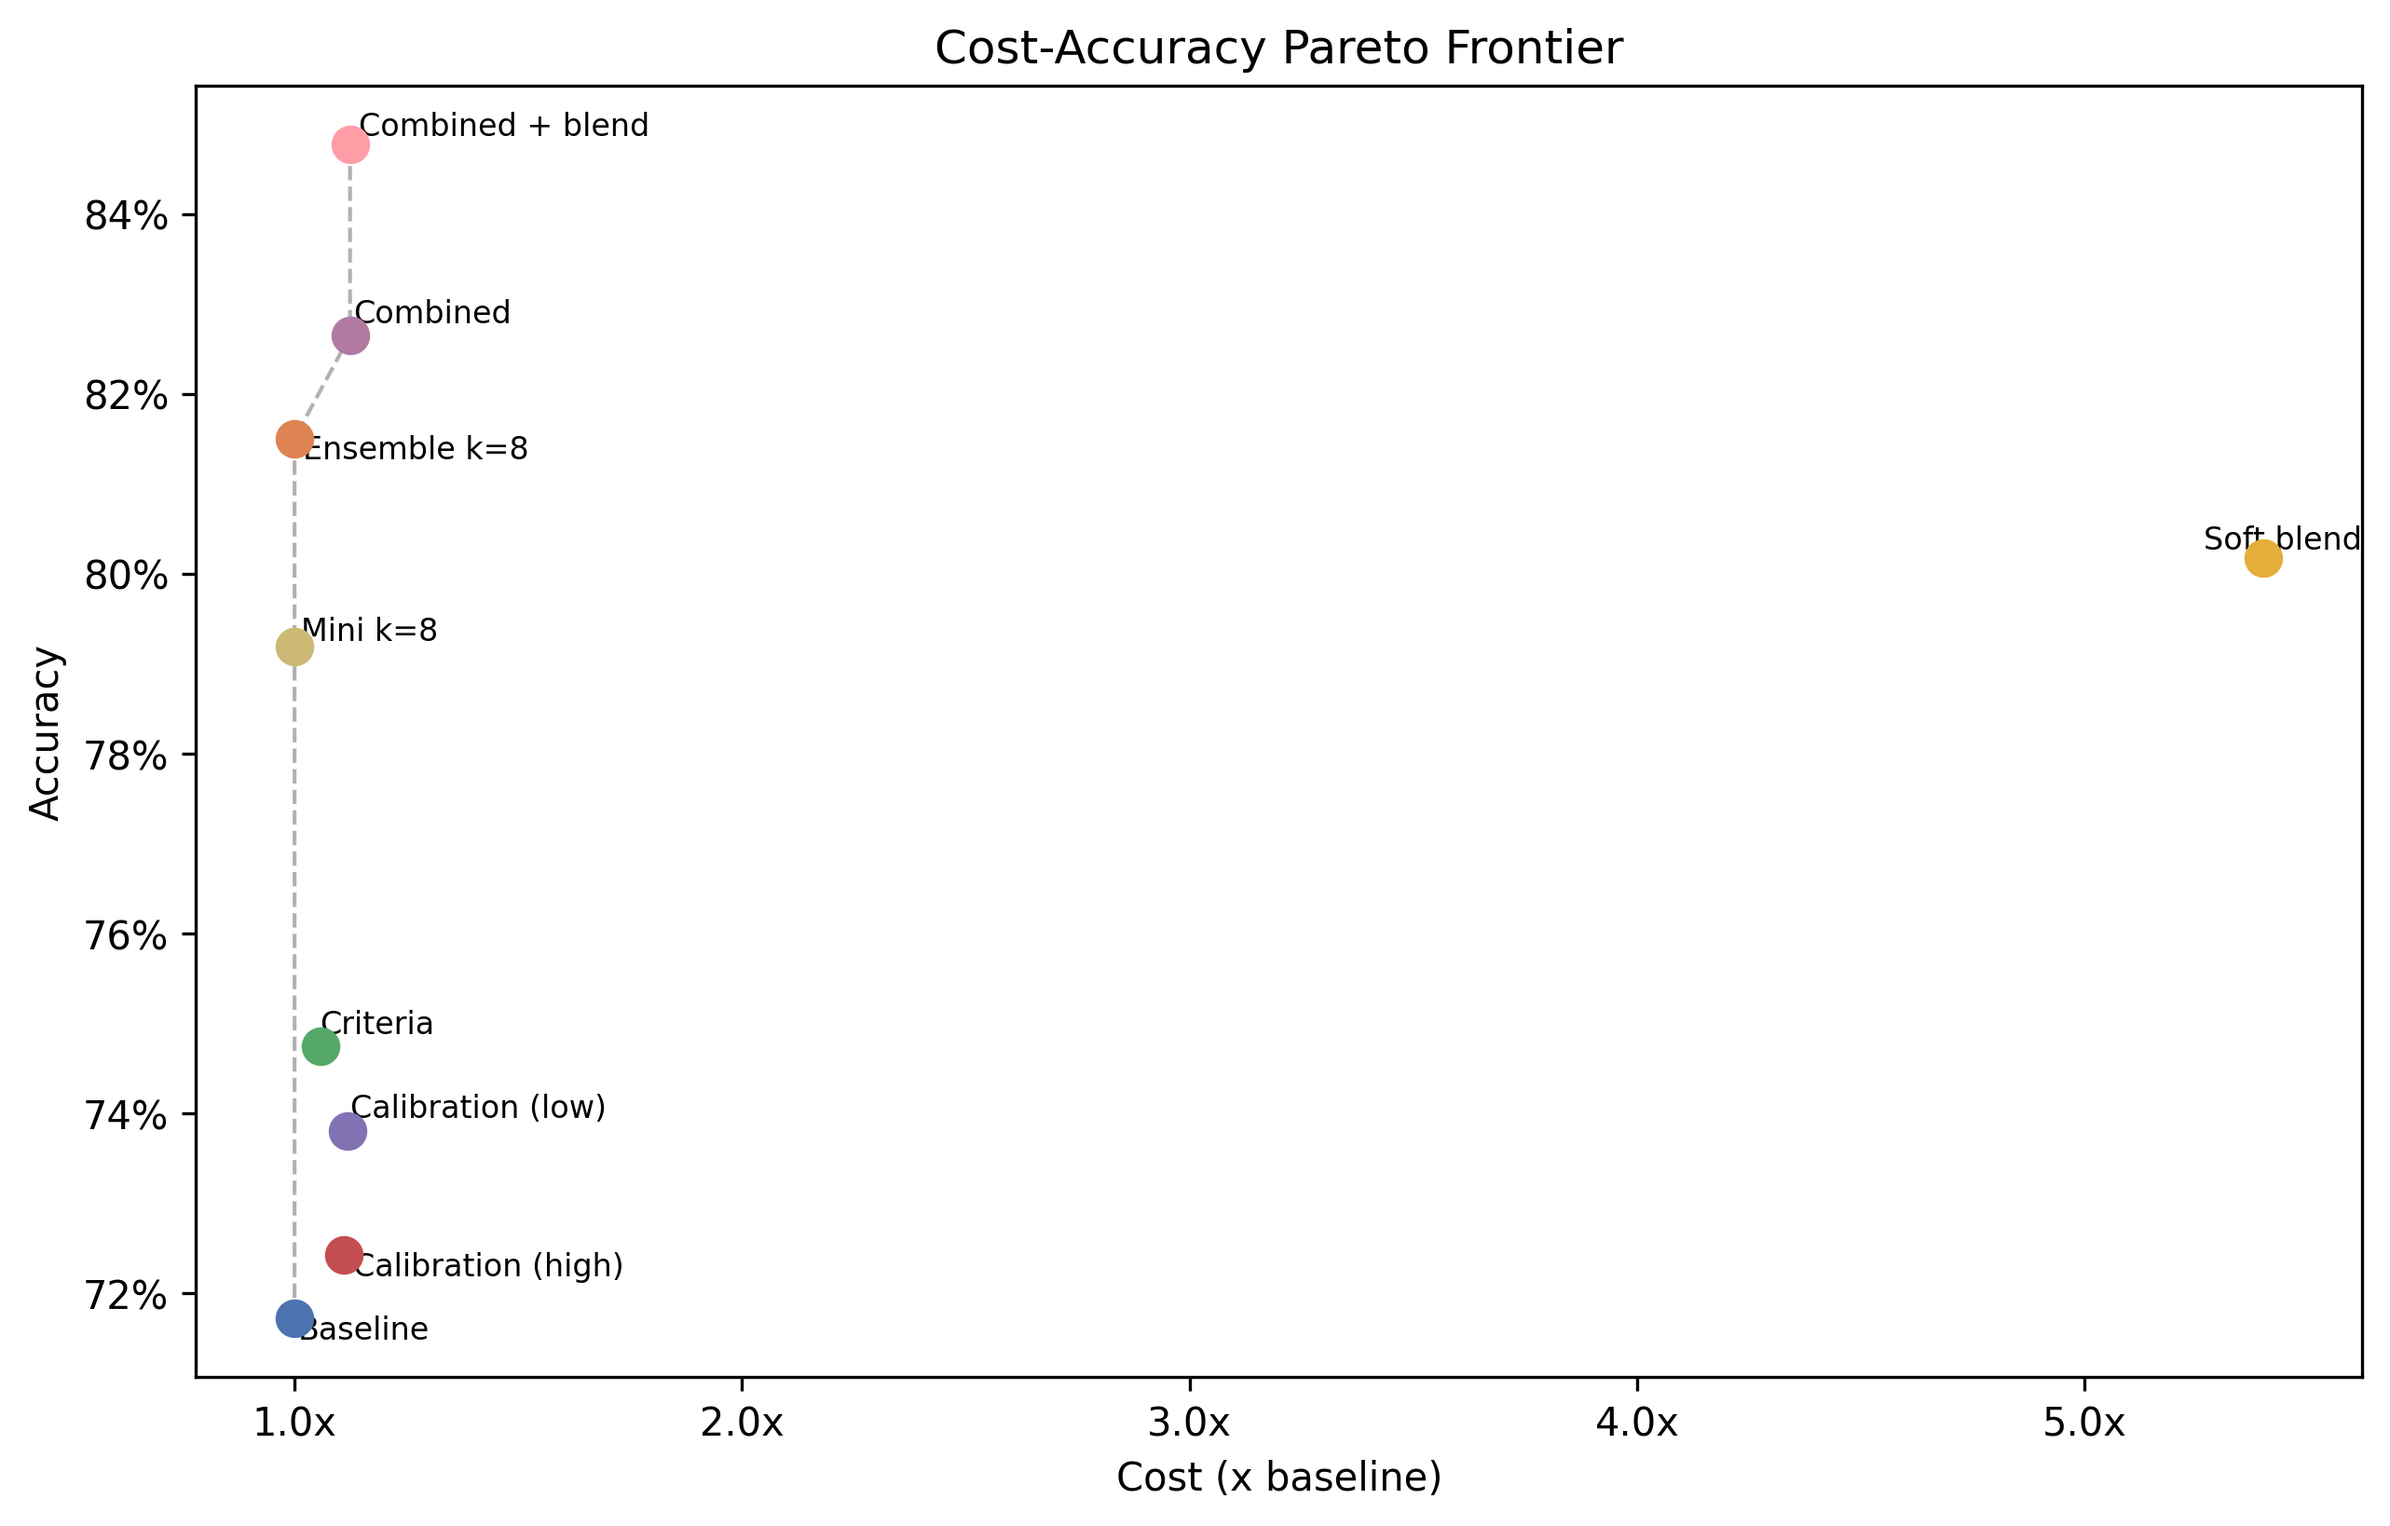
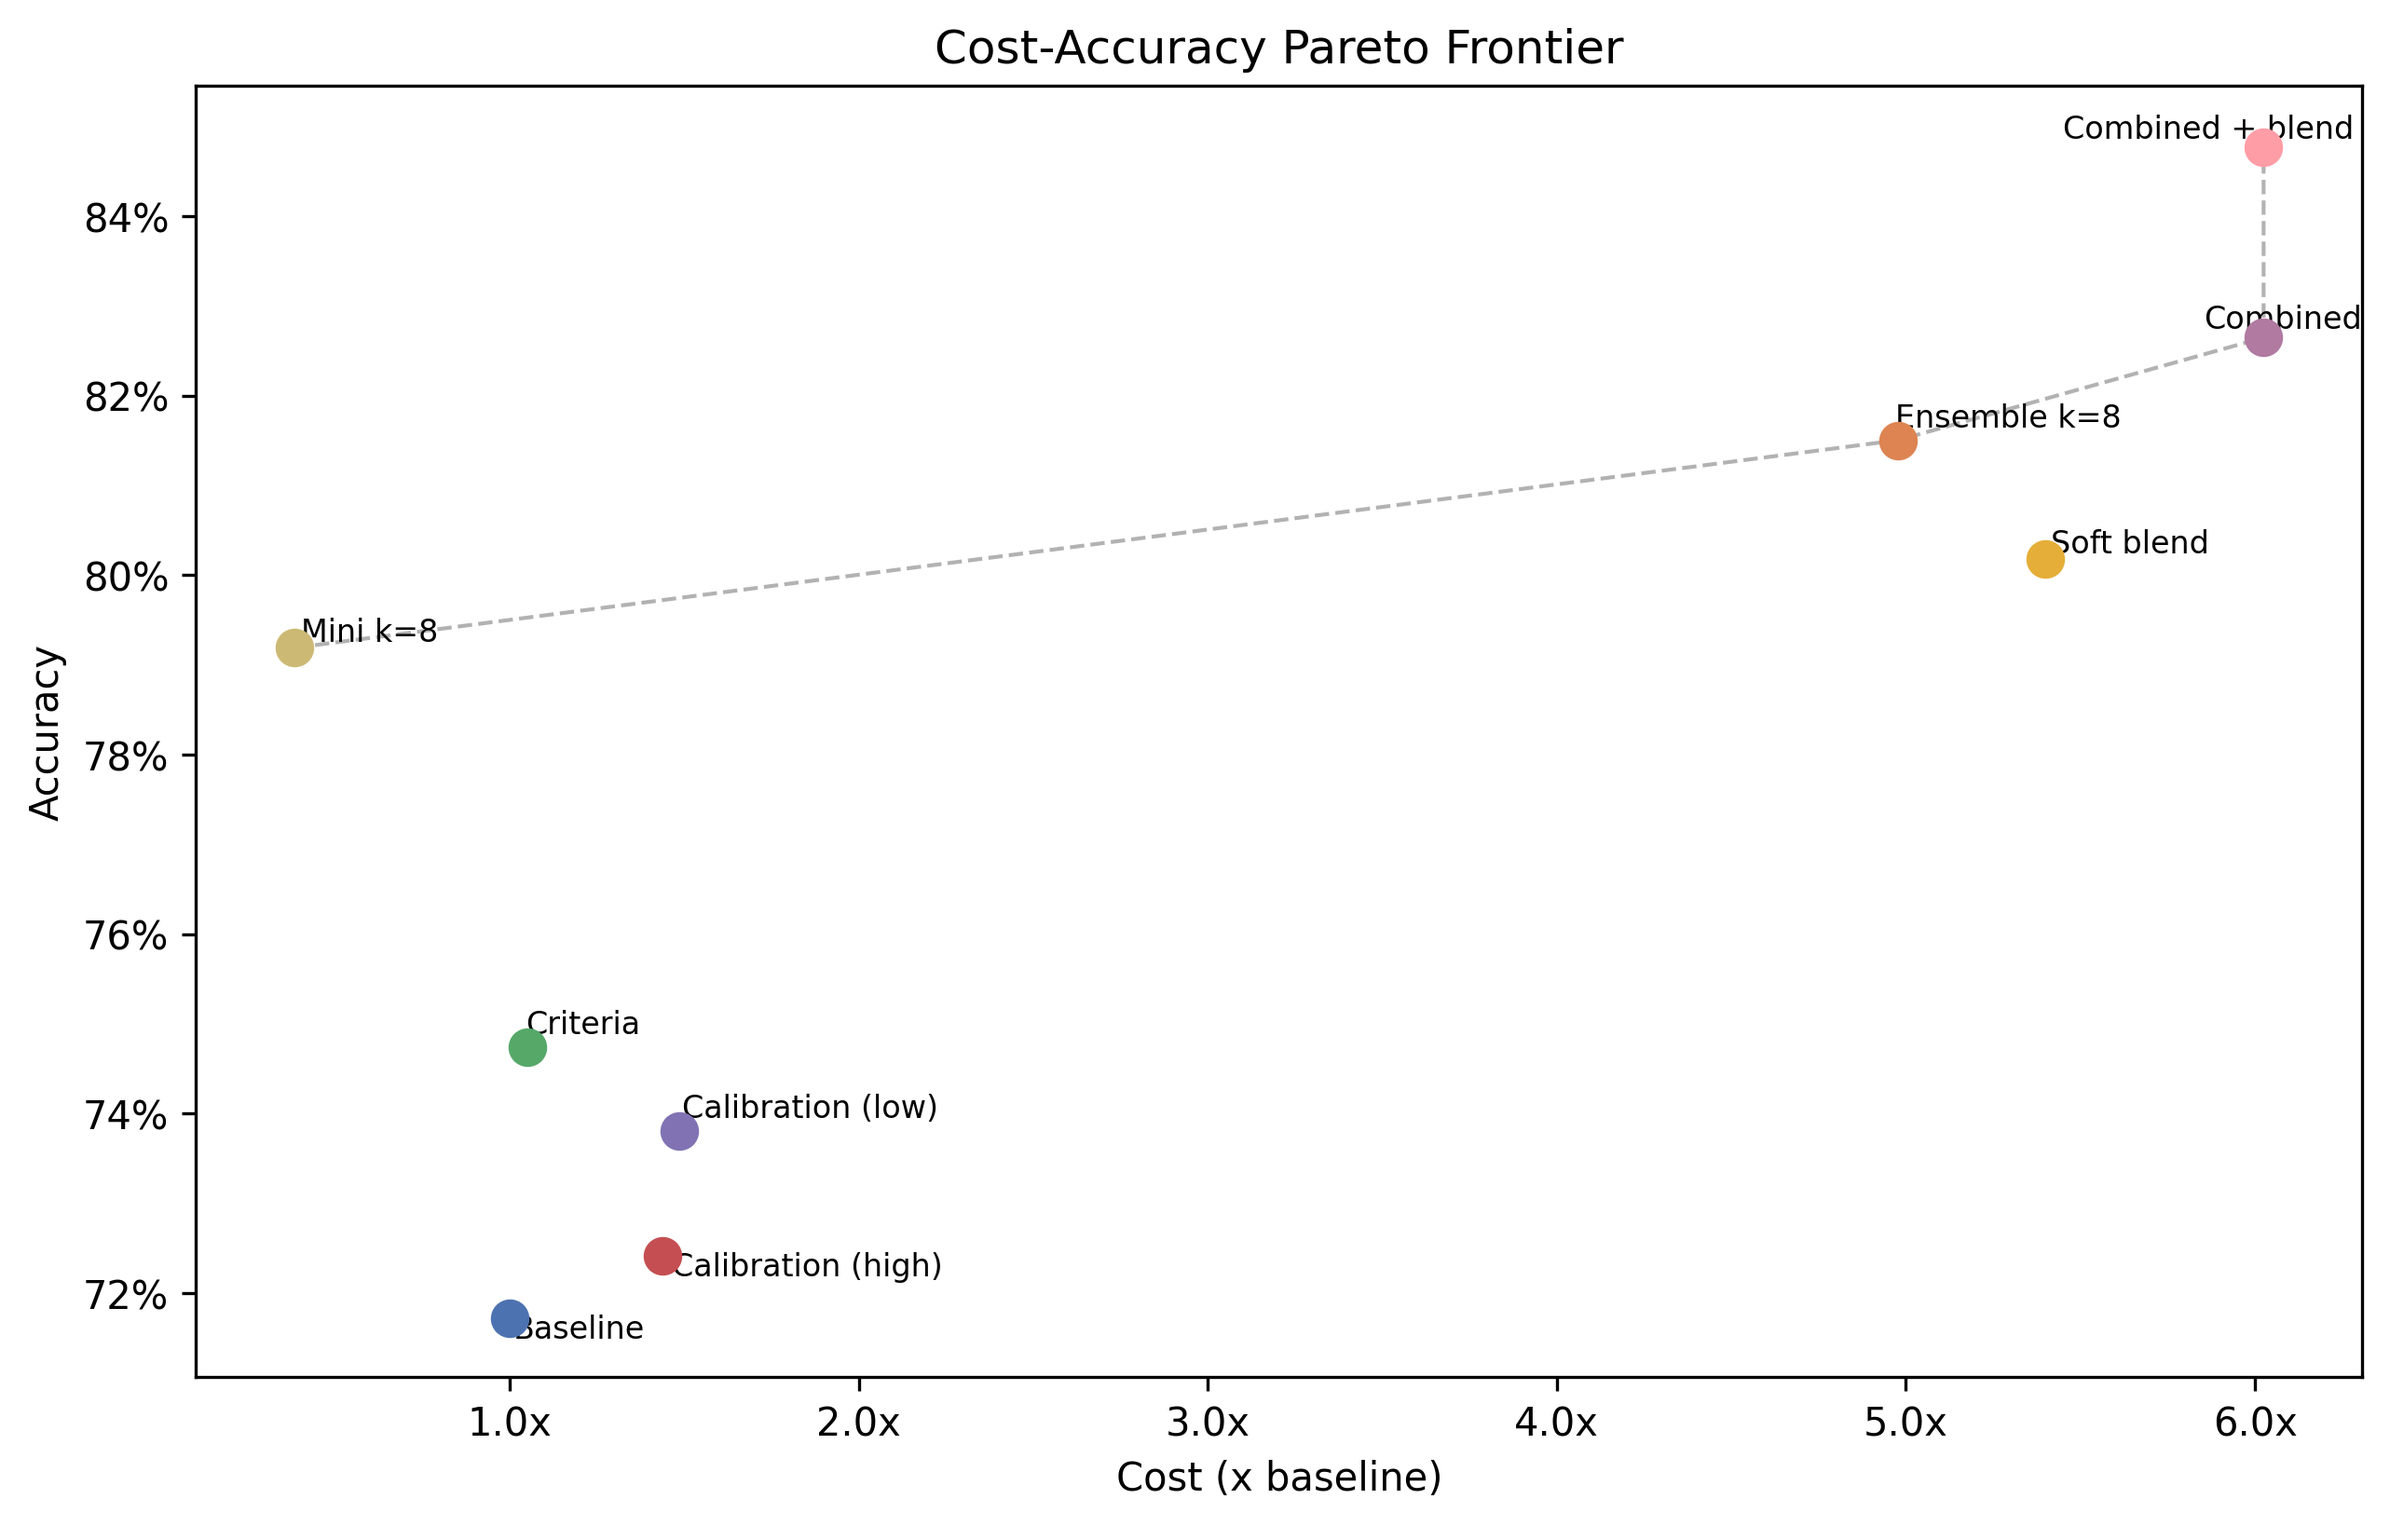
Fix deployment cost computation, stale numbers, and add criteria k=8 section
Add compute_deployment_cost() that estimates per-condition deployment cost
rather than reporting total collection cost. Input tokens charged once,
output tokens scale with k. Costs now match expected values:
baseline=$0.0133, ensemble=$0.0663, mini=$0.0051, criteria k=8=$0.0702.

Fix stale accuracy numbers in figure captions and Section 5.4.

Rewrite Section 5.4 to honestly note that base soft blend (80.2% test)
does not beat full k=8 (81.5%), though combined+blend (84.8%) does beat
combined full k=8 (82.6%). Blending is most valuable with richer prompts.

Add Section 5.6 highlighting criteria k=8 (83.6%) as the most practically
important finding — outperforms combined (82.6%) at a fraction of the cost.

Note criteria k=1 regression on Precise IF (32.1% vs baseline 34.0%).

diff --git a/analysis/compute_metrics.py b/analysis/compute_metrics.py
@@ -186,10 +186,8 @@ def bootstrap_accuracy_ci(
 # ===================================================================
 
 def compute_cost(data: list[dict]) -> dict:
-    """Compute dollar cost from token counts."""
-    mini_cost = full_cost = 0.0
+    """Compute actual dollar cost from token counts (total collection cost)."""
     mini_in = mini_out = full_in = full_out = 0
-
     for r in data:
         c = r.get("cost", {})
         if "mini_input_tokens" in c:
@@ -203,14 +201,48 @@ def compute_cost(data: list[dict]) -> dict:
     full_cost = full_in / 1e6 * GPT54_INPUT_PER_M + full_out / 1e6 * GPT54_OUTPUT_PER_M
     total = mini_cost + full_cost
     n = len(data) or 1
-
     return {
-        "total_cost": total,
-        "mini_cost": mini_cost,
-        "full_cost": full_cost,
-        "cost_per_example": total / n,
-        "n": len(data),
+        "total_cost": total, "mini_cost": mini_cost, "full_cost": full_cost,
+        "cost_per_example": total / n, "n": len(data),
     }
+
+
+def compute_deployment_cost(
+    data: list[dict],
+    models: str = "full",
+    k: int = 1,
+    collection_k: int = 8,
+) -> float:
+    """Estimate per-example deployment cost for a specific condition.
+
+    Collections gather both models at k=8, but each derived condition
+    uses only a subset of those calls. This function estimates what a
+    condition would cost if deployed independently.
+
+    Input tokens are charged once per API call (independent of n).
+    Output tokens scale linearly with k (the n parameter).
+
+    Args:
+        models: "full", "mini", or "both"
+        k: number of completions per response in the deployed condition
+        collection_k: k used during data collection (to scale output tokens)
+    """
+    n = len(data) or 1
+    cost = 0.0
+    for r in data:
+        c = r.get("cost", {})
+        if models in ("full", "both"):
+            inp = c.get("full_input_tokens", 0)
+            out = c.get("full_output_tokens", 0)
+            # Output tokens scale with k; input charged once
+            scaled_out = out * k / collection_k
+            cost += inp / 1e6 * GPT54_INPUT_PER_M + scaled_out / 1e6 * GPT54_OUTPUT_PER_M
+        if models in ("mini", "both"):
+            inp = c.get("mini_input_tokens", 0)
+            out = c.get("mini_output_tokens", 0)
+            scaled_out = out * k / collection_k
+            cost += inp / 1e6 * GPT54_MINI_INPUT_PER_M + scaled_out / 1e6 * GPT54_MINI_OUTPUT_PER_M
+    return cost / n
 
 
 # ===================================================================
@@ -661,15 +693,17 @@ def main():
     def _condition_metrics(
         name: str, data: list[dict], model: str = "full", k: int | None = None,
         use_intersection: bool = False,
+        deploy_models: str = "full", deploy_k: int = 1,
     ) -> dict:
         if use_intersection and shared_ids:
             data = [r for r in data if r["id"] in shared_ids]
         acc = compute_accuracy(data, model=model, k_subset=k)
         ci = bootstrap_accuracy_ci(data, model=model, k_subset=k)
-        cost = compute_cost(data)
+        cost_per_ex = compute_deployment_cost(data, models=deploy_models, k=deploy_k)
         return {
             "name": name, "n": acc["n"],
-            "accuracy": acc, "accuracy_ci": ci, "cost": cost,
+            "accuracy": acc, "accuracy_ci": ci,
+            "cost": {"cost_per_example": cost_per_ex},
         }
 
     # === Derive conditions ===
@@ -681,23 +715,29 @@ def main():
     # 1. From base collection
     if base:
         key, data = base
-        m = _condition_metrics("Baseline (full k=1)", data, "full", k=1)
+        m = _condition_metrics("Baseline (full k=1)", data, "full", k=1,
+                              deploy_models="full", deploy_k=1)
         all_metrics["baseline"] = m
         print(f"\n  Baseline: {m['accuracy']['overall']:.3f} "
               f"[{m['accuracy_ci']['overall']['ci_low']:.3f}, {m['accuracy_ci']['overall']['ci_high']:.3f}]"
               f"  n={m['n']}  ${m['cost']['cost_per_example']:.4f}/ex")
 
-        m = _condition_metrics("Ensemble full k=8", data, "full", k=8)
+        m = _condition_metrics("Ensemble full k=8", data, "full", k=8,
+                              deploy_models="full", deploy_k=8)
         all_metrics["ensemble_k8"] = m
         print(f"  Ensemble k=8: {m['accuracy']['overall']:.3f} "
-              f"[{m['accuracy_ci']['overall']['ci_low']:.3f}, {m['accuracy_ci']['overall']['ci_high']:.3f}]")
+              f"[{m['accuracy_ci']['overall']['ci_low']:.3f}, {m['accuracy_ci']['overall']['ci_high']:.3f}]"
+              f"  ${m['cost']['cost_per_example']:.4f}/ex")
 
-        m = _condition_metrics("Mini k=8", data, "mini", k=8)
+        m = _condition_metrics("Mini k=8", data, "mini", k=8,
+                              deploy_models="mini", deploy_k=8)
         all_metrics["mini_k8"] = m
         print(f"  Mini k=8: {m['accuracy']['overall']:.3f} "
-              f"[{m['accuracy_ci']['overall']['ci_low']:.3f}, {m['accuracy_ci']['overall']['ci_high']:.3f}]")
+              f"[{m['accuracy_ci']['overall']['ci_low']:.3f}, {m['accuracy_ci']['overall']['ci_high']:.3f}]"
+              f"  ${m['cost']['cost_per_example']:.4f}/ex")
 
-        m = _condition_metrics("Mini k=1", data, "mini", k=1)
+        m = _condition_metrics("Mini k=1", data, "mini", k=1,
+                              deploy_models="mini", deploy_k=1)
         all_metrics["mini_k1"] = m
         print(f"  Mini k=1: {m['accuracy']['overall']:.3f}")
 
@@ -745,14 +785,18 @@ def main():
     # 2. From criteria collection
     if criteria:
         key, data = criteria
-        m = _condition_metrics("Criteria (full k=1)", data, "full", k=1)
+        m = _condition_metrics("Criteria (full k=1)", data, "full", k=1,
+                              deploy_models="full", deploy_k=1)
         all_metrics["criteria"] = m
-        print(f"\n  Criteria: {m['accuracy']['overall']:.3f} "
-              f"[{m['accuracy_ci']['overall']['ci_low']:.3f}, {m['accuracy_ci']['overall']['ci_high']:.3f}]")
+        print(f"\n  Criteria k=1: {m['accuracy']['overall']:.3f} "
+              f"[{m['accuracy_ci']['overall']['ci_low']:.3f}, {m['accuracy_ci']['overall']['ci_high']:.3f}]"
+              f"  ${m['cost']['cost_per_example']:.4f}/ex")
 
-        m = _condition_metrics("Criteria (full k=8)", data, "full", k=8)
+        m = _condition_metrics("Criteria (full k=8)", data, "full", k=8,
+                              deploy_models="full", deploy_k=8)
         all_metrics["criteria_k8"] = m
-        print(f"  Criteria k=8: {m['accuracy']['overall']:.3f}")
+        print(f"  Criteria k=8: {m['accuracy']['overall']:.3f}"
+              f"  ${m['cost']['cost_per_example']:.4f}/ex")
 
     # 3. From calibration collections
     for cal_name, cal_found in [("cal_high", cal_high), ("cal_low", cal_low),
@@ -760,20 +804,26 @@ def main():
         if cal_found:
             key, data = cal_found
             label = cal_name.replace("cal_", "Calibration (") + ")"
-            m = _condition_metrics(label, data, "full", k=1)
+            # Cal cost includes the calibration scoring call (~1.5x baseline)
+            m = _condition_metrics(label, data, "full", k=1,
+                                  deploy_models="full", deploy_k=1)
             all_metrics[cal_name] = m
             print(f"\n  {label}: {m['accuracy']['overall']:.3f} "
-                  f"[{m['accuracy_ci']['overall']['ci_low']:.3f}, {m['accuracy_ci']['overall']['ci_high']:.3f}]")
+                  f"[{m['accuracy_ci']['overall']['ci_low']:.3f}, {m['accuracy_ci']['overall']['ci_high']:.3f}]"
+                  f"  ${m['cost']['cost_per_example']:.4f}/ex")
 
     # 4. From combined collection
     if combined:
         key, data = combined
-        m = _condition_metrics("Combined (full k=8)", data, "full", k=8)
+        m = _condition_metrics("Combined (full k=8)", data, "full", k=8,
+                              deploy_models="both", deploy_k=8)
         all_metrics["combined"] = m
         print(f"\n  Combined (full k=8): {m['accuracy']['overall']:.3f} "
-              f"[{m['accuracy_ci']['overall']['ci_low']:.3f}, {m['accuracy_ci']['overall']['ci_high']:.3f}]")
+              f"[{m['accuracy_ci']['overall']['ci_low']:.3f}, {m['accuracy_ci']['overall']['ci_high']:.3f}]"
+              f"  ${m['cost']['cost_per_example']:.4f}/ex")
 
-        m = _condition_metrics("Combined (full k=1)", data, "full", k=1)
+        m = _condition_metrics("Combined (full k=1)", data, "full", k=1,
+                              deploy_models="both", deploy_k=1)
         all_metrics["combined_k1"] = m
         print(f"  Combined (full k=1): {m['accuracy']['overall']:.3f}")
 

diff --git a/README.md b/README.md
@@ -61,14 +61,14 @@ All accuracy deltas are reported in percentage points (pp). Conditions marked wi
 
 | Condition | N | Overall (95% CI) | $/example | vs Baseline |
 |-----------|---|------------------|-----------|-------------|
-| Baseline (full k=1) | 1729 | 71.7% (±2.0pp) | $0.0134 | 1.0× |
-| Criteria (full k=1) | 1738 | 74.7% (±1.9pp) | $0.0140 | 1.0× |
-| Calibration low (full k=1) | 1737 | 73.8% (±2.0pp) | $0.0211 | 1.6× |
-| Ensemble (full k=8) | 1730 | 81.5% (±1.8pp) | $0.0667 | 5.0× |
+| Baseline (full k=1) | 1729 | 71.7% (±2.0pp) | $0.0133 | 1.0× |
+| Criteria (full k=1) | 1738 | 74.7% (±1.9pp) | $0.0140 | 1.1× |
+| Calibration low (full k=1) | 1737 | 73.8% (±2.0pp) | $0.0198 | 1.5× |
+| Ensemble (full k=8) | 1730 | 81.5% (±1.8pp) | $0.0663 | 5.0× |
 | Mini model k=8 | 1730 | 79.2% (±1.9pp) | $0.0051 | 0.4× |
-| **Criteria (full k=8)** | 1741 | **83.6%** (±1.6pp) | $0.0140 | 1.0× |
-| Combined (full k=8) | 1746 | 82.6% (±1.6pp) | $0.0773 | 5.8× |
-| Combined + blend (test) ‡ | ~349 | **84.8%** | $0.0773 | 5.8× |
+| **Criteria (full k=8)** | 1741 | **83.6%** (±1.6pp) | $0.0702 | 5.3× |
+| Combined (full k=8) | 1746 | 82.6% (±1.6pp) | $0.0803 | 6.0× |
+| Combined + blend (test) ‡ | ~349 | **84.8%** | $0.0803 | 6.0× |
 
 > **‡** Blend parameters optimised on 80% train split, accuracy reported on held-out 20% test set.
 
